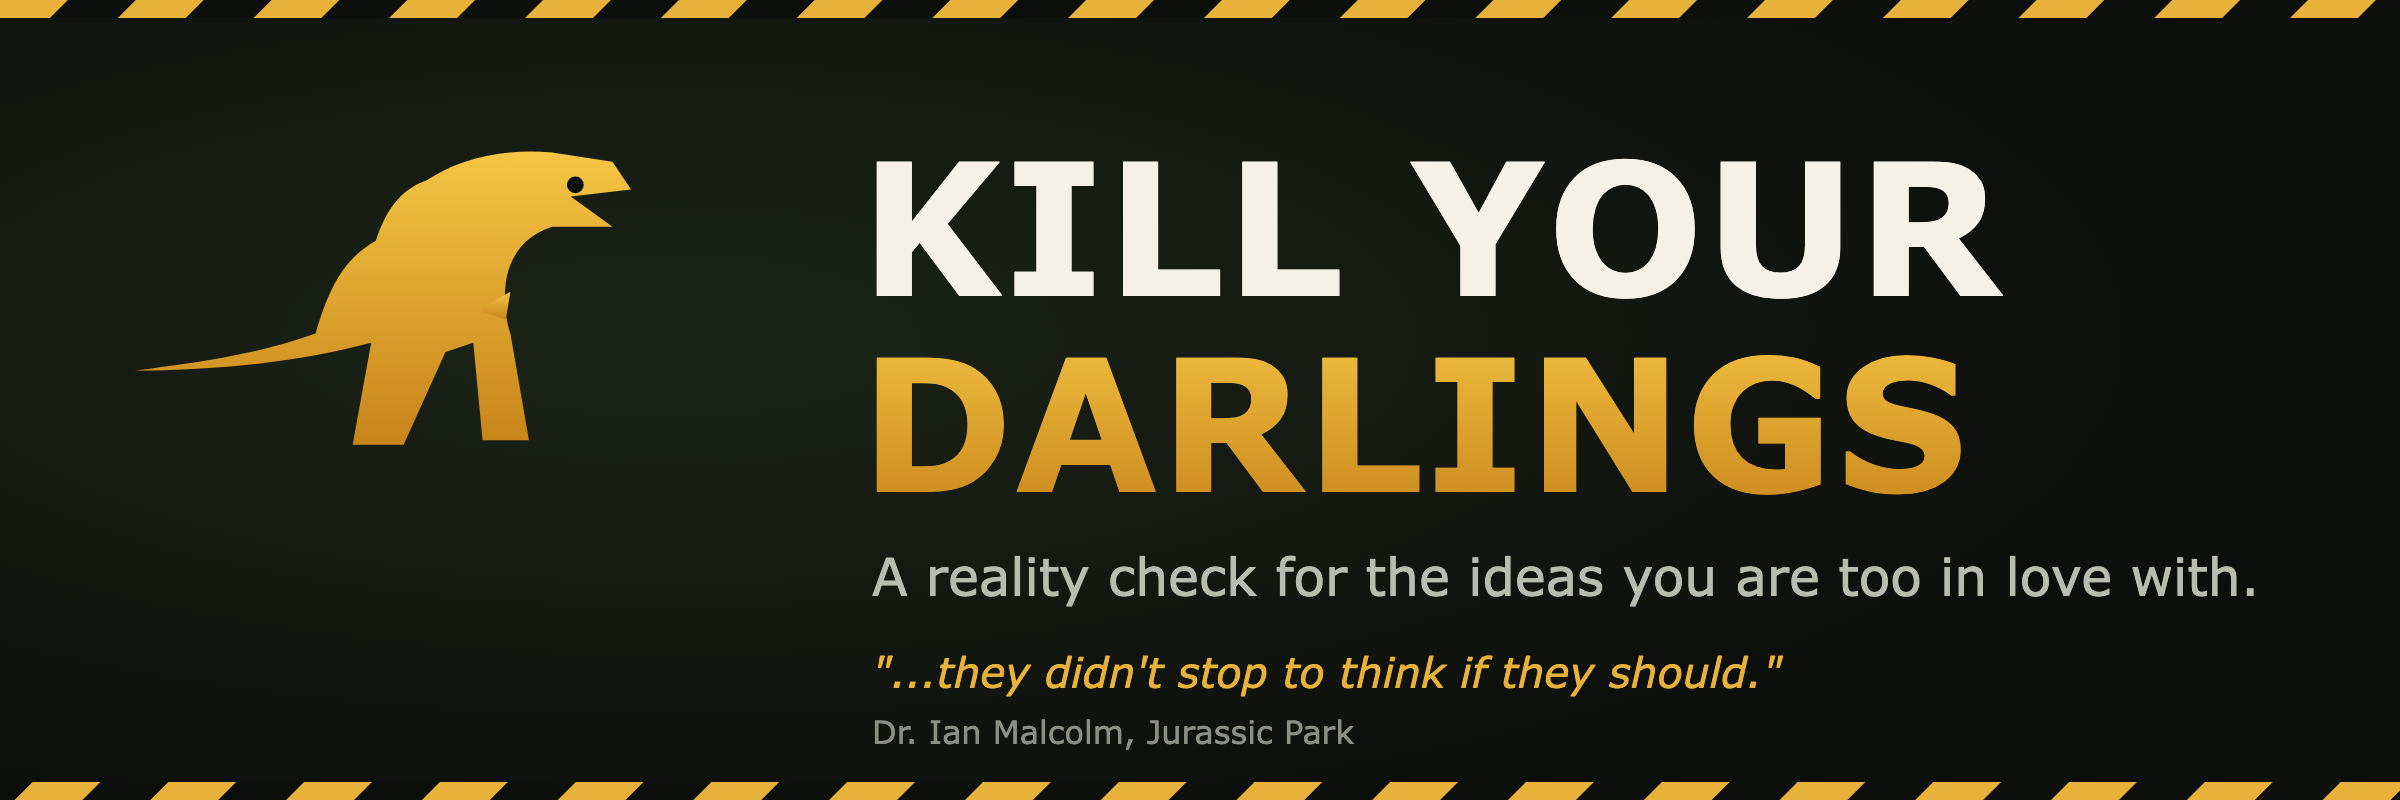
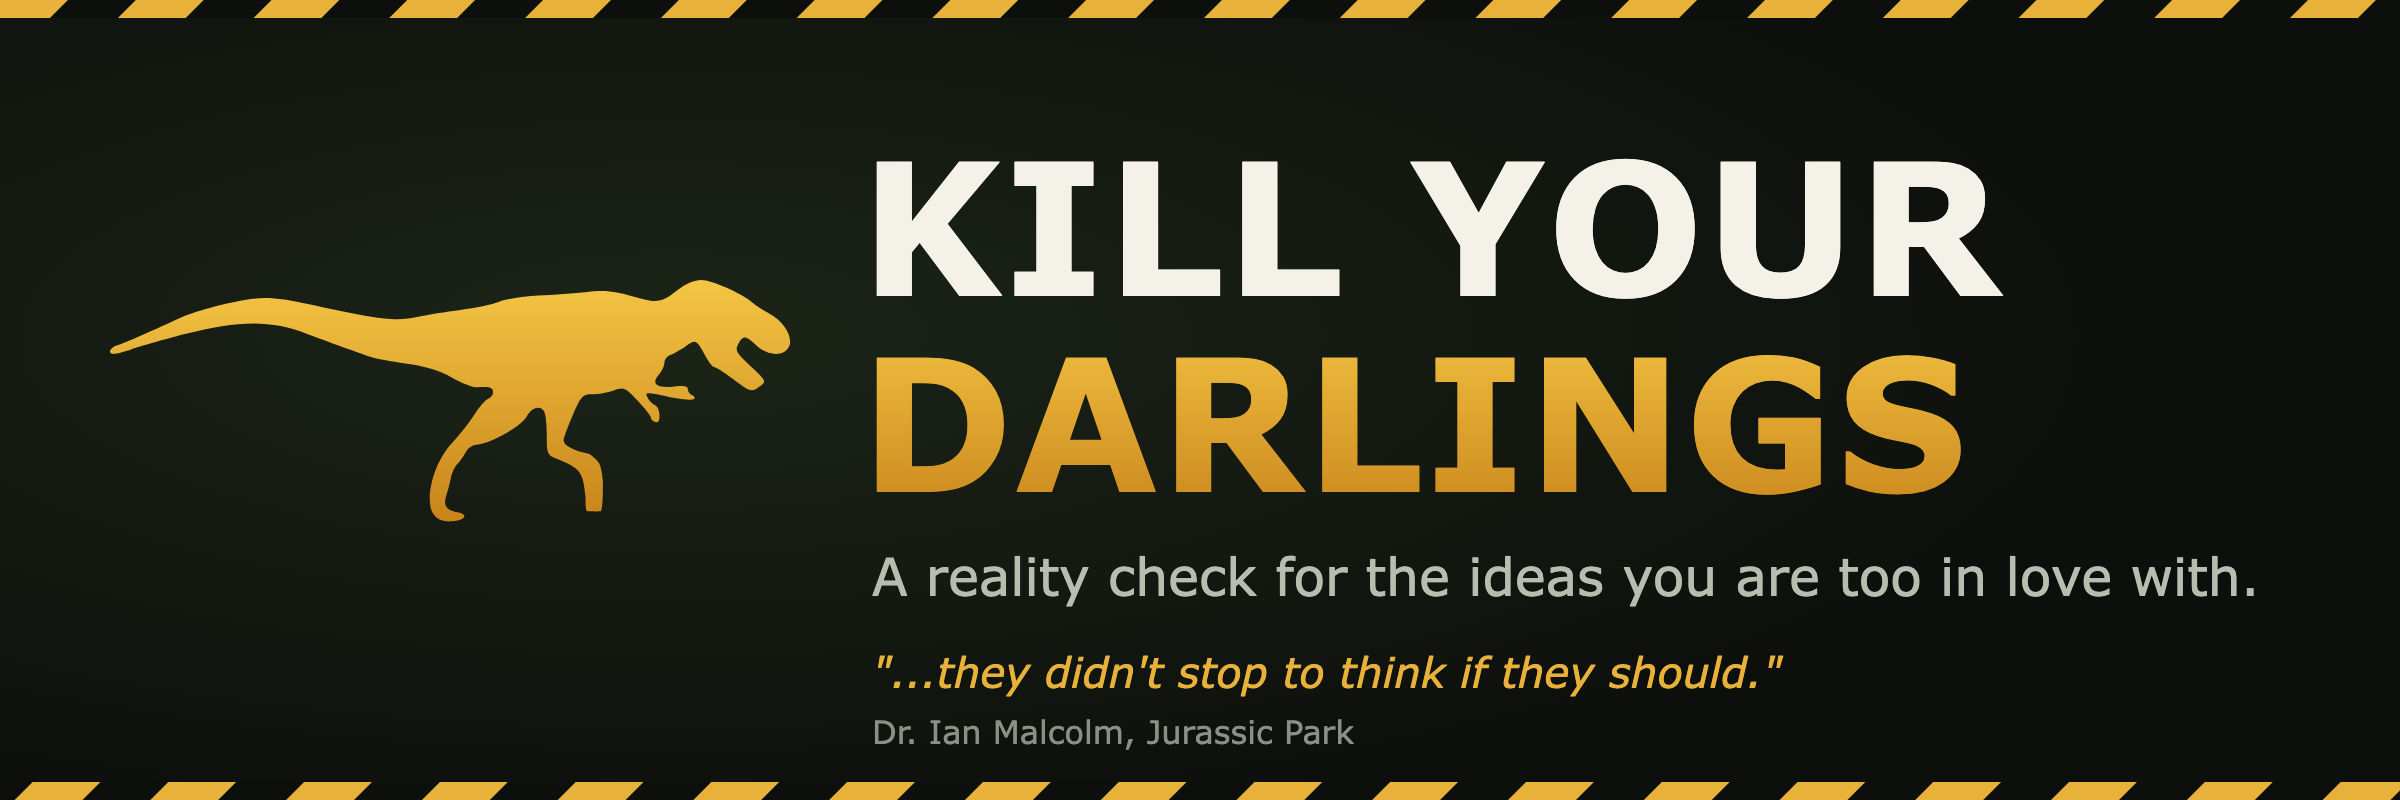
v1.4.0: real CC0 T-rex mark + three marks
Kills the hand-drawn dinosaur (it read more iguana than rex) and replaces it with a proper CC0/public-domain Tyrannosaurus silhouette (Wikimedia Commons) in the banner and report header. Adds three swappable marks under docs/marks/ (trex, mosquito-in-amber, theropod-track) with a showcase image in the README. Credit noted though CC0 needs none.

Changed region(s): [[0.0312, 0.1875, 0.3438, 0.6562]]

diff --git a/plugins/kill-your-darlings/skills/kill-your-darlings/assets/report-template.html b/plugins/kill-your-darlings/skills/kill-your-darlings/assets/report-template.html
@@ -34,7 +34,7 @@
 
   /* Brand chrome: dino mark + hazard rule, Jurassic-Park flavored. */
   .brand{display:flex; align-items:center; gap:10px; margin:0 0 12px}
-  .dino{width:44px; height:auto; flex:none; fill:var(--jp)}
+  .dino{width:62px; height:auto; flex:none; fill:var(--jp)}
   .brandname{font-weight:800; letter-spacing:.04em; font-size:.95rem; color:var(--jp); text-transform:uppercase}
   .hazard{height:6px; border-radius:3px; margin:0 0 22px;
     background:repeating-linear-gradient(45deg, var(--jp) 0 11px, transparent 11px 22px)}
@@ -88,10 +88,7 @@
 <div class="wrap">
 
   <div class="brand">
-    <svg class="dino" viewBox="0 0 230 150" aria-hidden="true">
-      <path d="M 8 108 C 40 104 64 100 86 92 C 92 72 98 60 112 52 C 116 40 122 30 134 26 C 146 18 164 12 188 14 L 214 18 L 222 30 L 196 33 L 214 46 L 188 46 C 176 50 170 58 168 70 C 167 78 168 86 170 92 L 178 138 L 158 138 L 154 96 L 142 100 L 124 140 L 102 140 L 110 96 C 80 104 44 108 8 108 Z"/>
-      <path d="M 170 74 L 156 82 L 168 86 Z"/>
-    </svg>
+    <svg class="dino" viewBox="0 0 202.42 71.85" aria-hidden="true"><path d="m 96.583069,70.098443 c -3.32479,-3.673845 -0.48581,-15.521057 5.148391,-21.484571 2.13769,-2.26263 5.11735,-6.048586 6.62147,-8.413239 1.50412,-2.364651 3.38868,-4.550296 4.18791,-4.856988 0.79923,-0.306693 1.45314,-1.184479 1.45314,-1.950635 0,-1.439507 -0.95712,-1.736131 -4.65938,-1.444011 -1.18766,0.09371 -4.57839,-1.19482 -7.53495,-2.8634 -3.733313,-2.106948 -7.808921,-3.370572 -13.340621,-4.136192 -4.38078,-0.606326 -9.09005,-1.479682 -10.46505,-1.940791 -3.53764,-1.186357 -17.11027,-6.089579 -19.5,-7.044533 -10.22579,-4.086306 -20.31391,-4.049598 -36.22184,0.131803 -6.47799,1.702739 -13.5781605,3.72119 -15.7781605,4.485447 -2.2,0.764258 -4.5625,1.396108 -5.25,1.404113 -2.09556997,0.0244 -1.39290997,-1.805315 0.98287,-2.559357 1.87461,-0.594977 7.2682,-2.952107 19.2671305,-8.420208 4.25976,-1.9412385 15.2756,-4.7998535 21.04691,-5.4616805 4.69046,-0.53788 8.61608,-0.131636 17.5,1.81099 20.99905,4.5918155 25.14284,5.0589645 31.74687,3.5789715 2.57887,-0.577939 8.218071,-1.4933215 12.531541,-2.0341845 4.31347,-0.540864 9.49237,-1.630738 11.50868,-2.421943 2.0163,-0.791204 7.266,-1.629113 11.666,-1.862019 4.4,-0.232906 10.925,-0.71921 14.5,-1.080675 4.989,-0.504434 8.1053,-0.199303 13.40566,1.312606 7.65409,2.183302 8.50062,2.059197 13.73824,-2.01409 C 171.37037,1.0976575 173.99777,0 175.92113,0 c 3.14406,0 12.10448,3.9367115 15.24344,6.6971185 0.91882,0.808016 3.16882,2.270109 5,3.249095 4.50047,2.4060485 7.3331,7.2441245 5.8566,10.0029755 -1.54885,2.89406 -6.25114,2.674533 -9.62169,-0.44919 -3.28036,-3.040134 -4.01608,-3.09615 -5.45098,-0.41502 -0.98053,1.832129 -0.53002,2.626841 3.71482,6.553077 4.63056,4.283017 4.75025,4.52803 2.88953,5.915019 -2.66188,1.984172 -2.92472,1.91777 -8.12681,-2.053075 -2.52189,-1.925 -4.98923,-3.5 -5.48298,-3.5 -0.49374,0 -1.56781,-1.2375 -2.38681,-2.75 -3.08461,-5.696557 -3.10415,-5.707745 -6.20887,-3.554445 -1.56937,1.088447 -3.6409,2.263097 -4.6034,2.610334 -0.9625,0.347237 -1.75,1.397531 -1.75,2.333985 0,0.936454 -0.71908,2.497221 -1.59796,3.468371 -2.46947,2.728727 -0.76421,4.192681 4.22828,3.629955 3.16181,-0.356382 4.36968,-0.134885 4.36968,0.801303 0,0.711606 0.5625,1.494722 1.25,1.740258 0.6875,0.245536 0.94835,0.77219 0.57966,1.170343 -0.36869,0.398152 -3.83871,0.07201 -7.71115,-0.724763 -6.67865,-1.374159 -6.99196,-1.357399 -6.09112,0.325838 0.52233,0.975983 1.51735,1.963669 2.21115,2.194859 0.6938,0.231189 1.28168,1.570872 1.30638,2.977073 0.0298,1.693405 -0.39233,2.388938 -1.25,2.059819 -0.7122,-0.2733 -1.29492,-0.86103 -1.29492,-1.306067 0,-0.445037 -1.76582,-2.702829 -3.92404,-5.017315 -3.74351,-4.014542 -4.07244,-4.156428 -7.14923,-3.083853 -1.77385,0.618367 -4.63289,1.124304 -6.35343,1.124304 -2.88024,0 -3.34411,0.495508 -5.8509,6.25 -1.49746,3.4375 -2.72259,6.796667 -2.72252,7.464816 1.5e-4,1.557006 2.86878,3.08138 7.67964,4.080929 0,0 2.21547,1.53677 2.85781,2.671639 0.89104,1.574254 1.13679,5.306383 1.13679,5.306383 0.10758,3.95379 -0.10743,8.74281 -0.62161,9.060589 -0.2405,-0.004 -0.42513,-0.01739 -0.63507,0.0071 -0.49988,0.0583 -0.68161,0.09911 -1.04023,0.03682 -0.28306,-0.04916 -0.82978,-0.03615 -1.13196,-0.03799 -0.26367,-0.0016 -0.54837,-0.04391 -0.9526,-0.0059 -0.97132,0.173129 -0.66069,-3.077563 -0.7807,-4.334356 -0.71299,-7.466593 -1.4494,-8.420856 -8.76195,-11.354049 -2.52778,-1.013937 -2.75,-1.542638 -2.75,-6.542725 0,-2.991808 -0.27314,-6.151455 -0.60699,-7.021439 -0.94256,-2.456277 -3.72955,-1.856227 -5.45523,1.174536 -1.64108,2.88217 -11.29246,8.243677 -14.83965,8.243677 -1.11527,0 -2.56467,1.003214 -3.22088,2.229364 -0.65622,1.226151 -1.79637,2.832618 -2.53368,3.569928 -0.73731,0.737309 -1.57906,2.546595 -1.87054,4.020635 -0.29149,1.47404 -0.92156,3.900319 -1.40017,5.39173 -0.947663,2.953093 -0.01,4.306382 3.42714,4.94443 3.27614,0.60822 2.27063,2.321163 -1.55111,2.642421 -2.546343,0.214047 -4.062881,-0.266982 -5.359801,-1.700065 l 0,-3e-5 z"/></svg>
     <span class="brandname">Kill Your Darlings</span>
   </div>
   <div class="hazard"></div>

diff --git a/README.md b/README.md
@@ -170,6 +170,17 @@ voice, harden the cuts, or add sibling skills (a "scope referee", a "pre-mortem"
 runner, a "second opinion" panel) under `plugins/` and list them in
 `marketplace.json`. See [CONTRIBUTING.md](CONTRIBUTING.md).
 
+## Marks
+
+The repo ships three marks, all gold-on-dark self-contained SVGs in
+[`docs/marks/`](docs/marks). Swap the one in the banner or the report to taste.
+
+![Marks](docs/marks.png)
+
+- **Tyrannosaurus:** the predator, and the default mark.
+- **Mosquito in amber:** the darling, preserved instead of killed.
+- **Theropod track:** what it leaves behind.
+
 ## Credit
 
 The advice is old. Arthur Quiller-Couch wrote "murder your darlings" in *On the
@@ -185,6 +196,10 @@ anyway, because the film is the perfect cautionary tale for an unkilled darling.
 "Your scientists were so preoccupied with whether they could, they didn't stop
 to think if they should" is the whole lesson in one line: the most beloved idea,
 shipped without a reality check, is the one that eats the park.
+
+The T. rex silhouette is CC0 / public domain (Wikimedia Commons,
+*Tyrannosaurus_silhouette.svg*). No attribution is required; it is credited here
+anyway, because killing your darlings does not mean killing your sources.
 
 ## License
 

diff --git a/CHANGELOG.md b/CHANGELOG.md
@@ -4,6 +4,18 @@ All notable changes to this project are documented here. The format follows
 [Keep a Changelog](https://keepachangelog.com/), and this project uses
 [Semantic Versioning](https://semver.org/).
 
+## [1.4.0] - 2026-06-26
+
+### Changed
+- **Real T. rex mark.** Replaced the hand-drawn dinosaur (which read more iguana
+  than rex) with a proper CC0 / public-domain Tyrannosaurus silhouette from
+  Wikimedia Commons, used in the banner and the report header.
+
+### Added
+- **Three marks** in [`docs/marks/`](docs/marks): `trex.svg` (default),
+  `mosquito-amber.svg` (the darling preserved instead of killed), and
+  `theropod-track.svg`, plus a showcase image (`docs/marks.png`) in the README.
+
 ## [1.3.0] - 2026-06-25
 
 ### Added